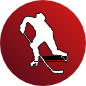
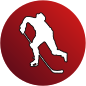
Updated artwork and fixed minor annoyances.
* Fixed missing icons in cover page.
* Lowered default update rate from 5 to 2 minutes.
* Set default log level to 'ERROR'.
* Updated all application icons.

diff --git a/qml/sailfishos/cover/CoverPage.qml b/qml/sailfishos/cover/CoverPage.qml
@@ -44,7 +44,7 @@ CoverBackground {
         height: Theme.fontSizeExtraLarge
         width: Theme.fontSizeExtraLarge
         fillMode: Image.PreserveAspectFit
-        source: "../icons/" + gameDetailsData.hometeamId + ".png"
+        source: "../../icons/" + gameDetailsData.hometeamId + ".png"
     }
 
     Label {
@@ -67,7 +67,7 @@ CoverBackground {
         height: Theme.fontSizeLarge
         width: Theme.fontSizeLarge
         fillMode: Image.PreserveAspectFit
-        source: "../icons/" + gameDetailsData.awayteamId + ".png"
+        source: "../../icons/" + gameDetailsData.awayteamId + ".png"
     }
 
     Label {

diff --git a/src/livescores.cpp b/src/livescores.cpp
@@ -82,7 +82,7 @@ LiveScores::LiveScores(QObject *parent) : QObject(parent) {
 
     // Create a timer that periodically fires to update the data, defaults to 5 mins
     Config& config = Config::getInstance();
-    int updateInterval = config.getValue("updateInterval", 5).toInt();
+    int updateInterval = config.getValue("updateInterval", 2).toInt();
     this->timer = new QTimer(this);
     this->timer->setSingleShot(false);
     connect(this->timer, SIGNAL(timeout()), this, SLOT(updateData()));

diff --git a/src/main.cpp b/src/main.cpp
@@ -45,8 +45,8 @@ int main(int argc, char *argv[]) {
     logger.setLogfile("/home/user/swisshockey.log");                            // TODO: Update path
 #endif
     //logger.setLevel(config.getValue("loglevel", Logger::ERROR).toInt());
-    logger.setLevel(Logger::DEBUG);
-    //logger.setLevel(Logger::ERROR);
+    //logger.setLevel(Logger::DEBUG);
+    logger.setLevel(Logger::ERROR);
 
     // Create a controller that generates the UI and connects all the necessary
     // signals, etc.
